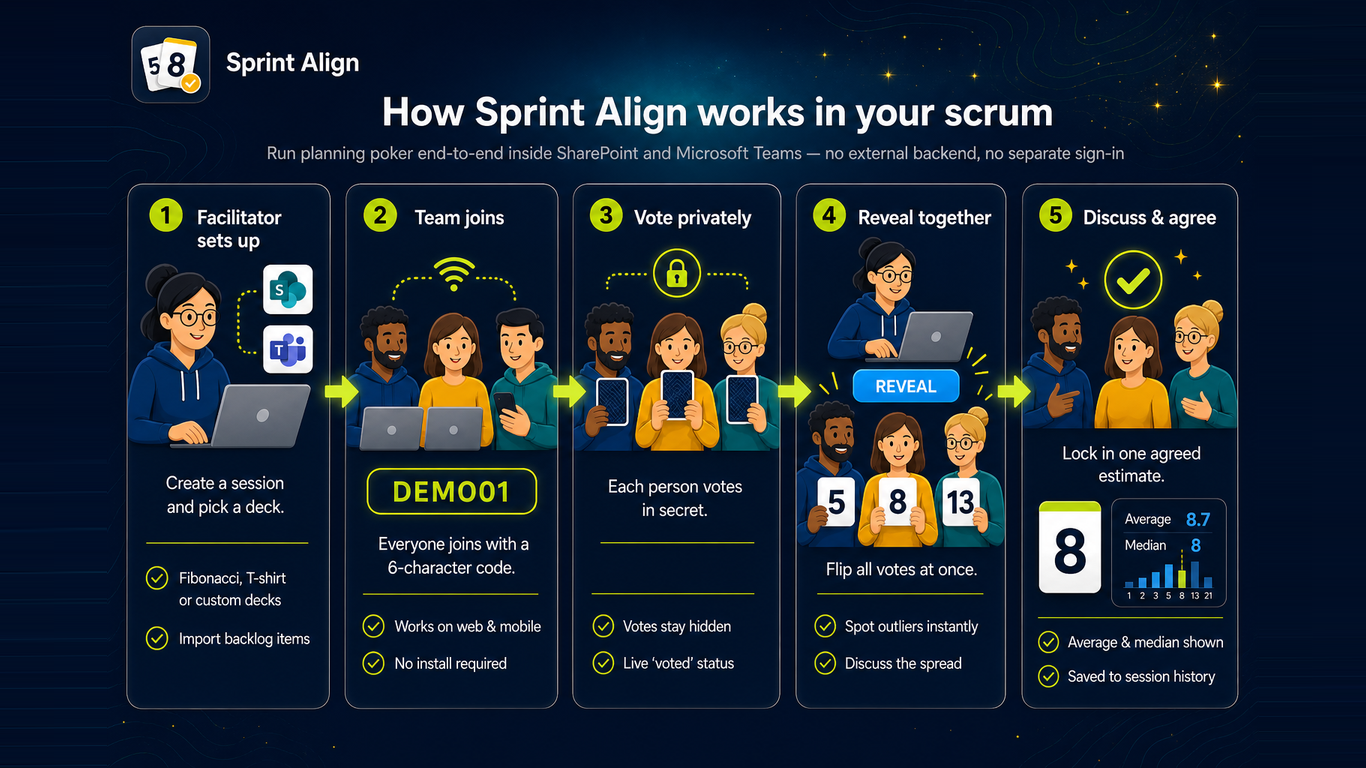
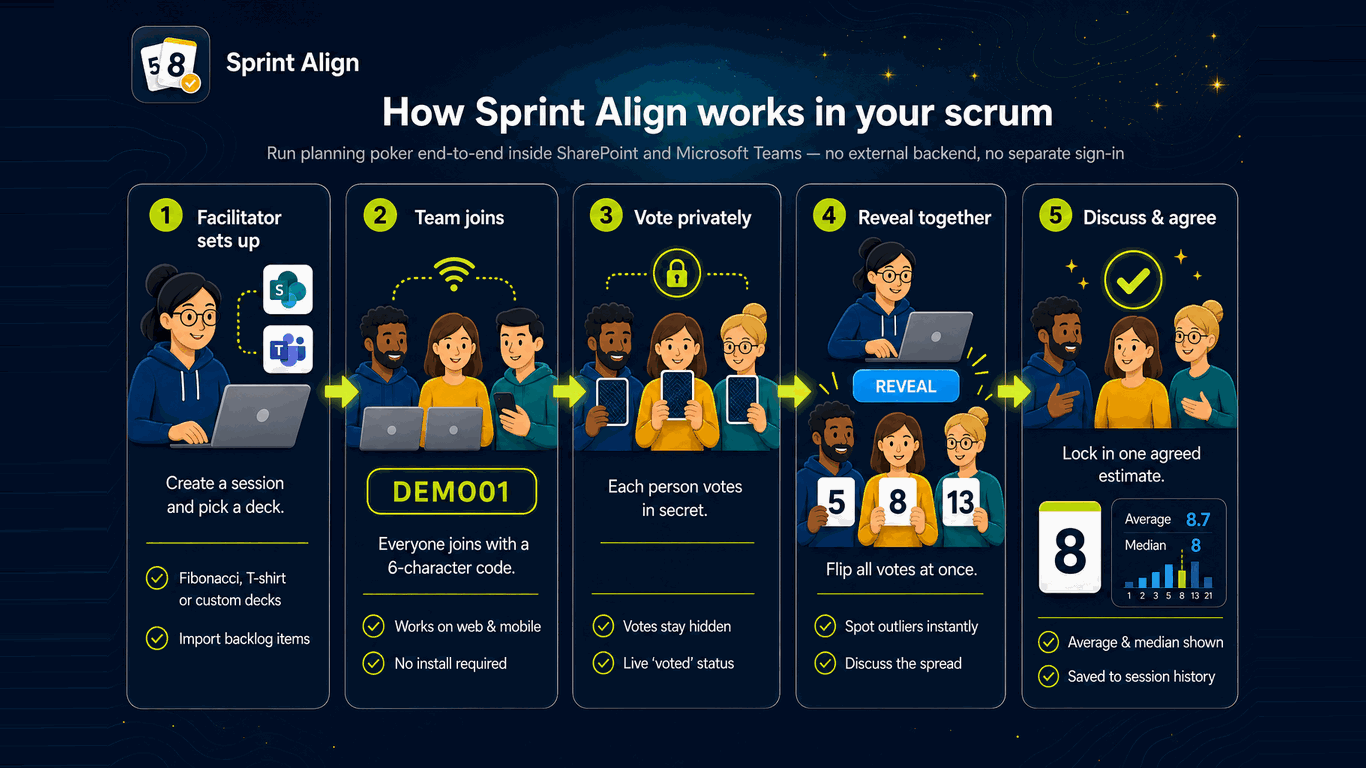
Commiting chnges.

Changed region(s): [[0.5534, 0.5, 0.5842, 0.5312], [0.3997, 0.5, 0.4305, 0.5312], [0.1845, 0.375, 0.2152, 0.4062]]

diff --git a/spPokerPlanning/src/utils/subscriptionStatusToken.ts b/spPokerPlanning/src/utils/subscriptionStatusToken.ts
@@ -20,6 +20,7 @@ interface IStatusTokenPayload {
 }
 
 let cachedCryptoKey: CryptoKey | undefined;
+let verificationKeyPromise: Promise<CryptoKey | undefined> | undefined;
 
 function base64UrlToBytes(value: string): Uint8Array {
   const padded = value.replace(/-/g, '+').replace(/_/g, '/');
@@ -63,23 +64,29 @@ async function getVerificationKey(apiBaseUrl: string): Promise<CryptoKey | undef
     return cachedCryptoKey;
   }
 
-  const response = await fetch(`${apiBaseUrl}/api/subscription/status-signing-key`, {
-    method: 'GET',
-    headers: { Accept: 'application/json' }
-  });
+  if (!verificationKeyPromise) {
+    verificationKeyPromise = (async (): Promise<CryptoKey | undefined> => {
+      const response = await fetch(`${apiBaseUrl}/api/subscription/status-signing-key`, {
+        method: 'GET',
+        headers: { Accept: 'application/json' }
+      });
 
-  if (!response.ok) {
-    return undefined;
+      if (!response.ok) {
+        return undefined;
+      }
+
+      const data = (await response.json()) as IStatusSigningKeyResponse;
+      if (!data.publicKey) {
+        return undefined;
+      }
+
+      const importedKey = await importPublicKey(data.publicKey);
+      cachedCryptoKey = importedKey;
+      return importedKey;
+    })();
   }
 
-  const data = (await response.json()) as IStatusSigningKeyResponse;
-  if (!data.publicKey) {
-    return undefined;
-  }
-
-  const importedKey = await importPublicKey(data.publicKey);
-  cachedCryptoKey = importedKey;
-  return importedKey;
+  return verificationKeyPromise;
 }
 
 export async function verifySubscriptionStatusToken(
@@ -168,4 +175,5 @@ export async function verifySubscriptionStatusToken(
 
 export function clearStatusSigningKeyCache(): void {
   cachedCryptoKey = undefined;
+  verificationKeyPromise = undefined;
 }

diff --git a/spPokerPlanning/scripts/apply-publisher-metadata.js b/spPokerPlanning/scripts/apply-publisher-metadata.js
@@ -1,0 +1,31 @@
+'use strict';
+
+const fs = require('fs');
+const path = require('path');
+
+const publisherPath = path.join(__dirname, '..', 'config', 'publisher.json');
+const packageSolutionPath = path.join(__dirname, '..', 'config', 'package-solution.json');
+
+const publisher = JSON.parse(fs.readFileSync(publisherPath, 'utf8'));
+const packageSolution = JSON.parse(fs.readFileSync(packageSolutionPath, 'utf8'));
+
+const mpnId =
+  (process.env.CHRONODAT_MPN_ID || process.env.SPFX_MPN_ID || publisher.mpnId || '').trim();
+
+packageSolution.solution.developer = {
+  name: publisher.publisherName || 'Chronodat, LLC',
+  websiteUrl: publisher.websiteUrl,
+  privacyUrl: publisher.privacyUrl,
+  termsOfUseUrl: publisher.termsOfUseUrl,
+  mpnId: mpnId || 'Undefined-1.21.1'
+};
+
+fs.writeFileSync(packageSolutionPath, `${JSON.stringify(packageSolution, null, 2)}\n`, 'utf8');
+
+if (!mpnId) {
+  console.warn(
+    '[publisher] developer.mpnId is not set. Add it to config/publisher.json or set CHRONODAT_MPN_ID before AppSource submission.'
+  );
+} else {
+  console.log('[publisher] Applied developer metadata to config/package-solution.json');
+}

diff --git a/spPokerPlanning/e2e/appsource-screenshots.spec.ts b/spPokerPlanning/e2e/appsource-screenshots.spec.ts
@@ -16,13 +16,9 @@ const authFile = 'e2e/.auth/user.json';
 
 /**
  * Drives the full Sprint Align experience with the in-memory demo workshop
- * (no SharePoint writes) and captures the marketplace screenshots used for the
- * AppSource / SharePoint store listing. Because it walks every primary screen —
- * home, live voting, revealed results, settings/branding, and history — it also
- * serves as an end-to-end smoke test of the shipped bundle on the live page.
- *
- * The three package-solution screenshotPaths (01-home, 02-sessions, 03-settings)
- * are always regenerated; 04-results and 05-history are extra listing assets.
+ * (no SharePoint writes) and captures marketplace screenshots used for the
+ * AppSource / SharePoint store listing. Filenames match package-solution
+ * screenshotPaths and Partner Center upload names (01–05).
  */
 test.describe('Sprint Align — AppSource screenshots (demo data)', () => {
   test.describe.configure({ mode: 'serial' });
@@ -58,20 +54,18 @@ test.describe('Sprint Align — AppSource screenshots (demo data)', () => {
   test('02 — live voting session', { tag: '@screenshots' }, async () => {
     await launchDemoWorkshop(page);
 
-    // Demo lands on an open round for the first story with teammates already voting.
     await expect(appRoot(page).getByText('User onboarding flow redesign')).toBeVisible({ timeout: 30_000 });
     await expect(appRoot(page).getByText(/choose your estimate/i)).toBeVisible();
     await expect(appRoot(page).getByText(/team roster/i)).toBeVisible();
     await expect(appRoot(page).getByText('Sam Rivera')).toBeVisible();
 
-    // Cast the facilitator's own estimate so the board reads as a full round.
     const voteCard = appRoot(page).getByRole('button', { name: 'Vote 5' });
     if (await voteCard.isVisible().catch(() => false)) {
       await voteCard.click();
       await expect(appRoot(page).getByText(/your vote:/i)).toBeVisible({ timeout: 15_000 });
     }
 
-    await saveStoreScreenshot(page, 'sprint-align-screenshot-02-sessions.png');
+    await saveStoreScreenshot(page, 'sprint-align-screenshot-02-voting.png');
   });
 
   test('03 — revealed round results', { tag: '@screenshots' }, async () => {
@@ -80,7 +74,7 @@ test.describe('Sprint Align — AppSource screenshots (demo data)', () => {
       await reveal.click();
     }
     await expect(appRoot(page).getByText('Round results')).toBeVisible({ timeout: 30_000 });
-    await saveStoreScreenshot(page, 'sprint-align-screenshot-04-results.png');
+    await saveStoreScreenshot(page, 'sprint-align-screenshot-03-results.png');
   });
 
   test('04 — settings and branding', { tag: '@screenshots' }, async () => {
@@ -88,12 +82,11 @@ test.describe('Sprint Align — AppSource screenshots (demo data)', () => {
 
     await openSettingsTab(page, 'Branding');
     await expect(appRoot(page).getByRole('tab', { name: 'Branding' })).toBeVisible();
-    // Brand preview card is the most representative settings visual.
     await expect(appRoot(page).getByText(/brand preview/i).first()).toBeVisible({ timeout: 30_000 });
-    await saveStoreScreenshot(page, 'sprint-align-screenshot-03-settings.png');
+    await saveStoreScreenshot(page, 'sprint-align-screenshot-04-settings.png');
   });
 
-  test('05 — session history', { tag: '@screenshots' }, async () => {
+  test('05 — session history (extra capture)', { tag: '@screenshots' }, async () => {
     await clickAppButton(page, 'Back home');
     await expect(appRoot(page).getByText('Join a session')).toBeVisible({ timeout: 30_000 });
 
@@ -101,6 +94,6 @@ test.describe('Sprint Align — AppSource screenshots (demo data)', () => {
     await expect(
       appRoot(page).getByRole('heading', { name: /review previous sessions|sessions/i }).first()
     ).toBeVisible({ timeout: 30_000 });
-    await saveStoreScreenshot(page, 'sprint-align-screenshot-05-history.png');
+    await saveStoreScreenshot(page, 'sprint-align-screenshot-extra-history.png');
   });
 });

diff --git a/spPokerPlanning/src/types/staticAssets.d.ts b/spPokerPlanning/src/types/staticAssets.d.ts
@@ -1,0 +1,14 @@
+declare module '*.jpg' {
+  const src: string;
+  export default src;
+}
+
+declare module '*.jpeg' {
+  const src: string;
+  export default src;
+}
+
+declare module '*.png' {
+  const src: string;
+  export default src;
+}

diff --git a/spPokerPlanning/src/demo/mockParticipantPhotos.ts b/spPokerPlanning/src/demo/mockParticipantPhotos.ts
@@ -3,11 +3,11 @@
  * Remove with src/demo/ when mock data is no longer needed.
  */
 
-const samRiveraPhoto: string = require('./assets/sam-rivera.jpg');
-const jordanLeePhoto: string = require('./assets/jordan-lee.jpg');
-const alexChenPhoto: string = require('./assets/alex-chen.jpg');
-const morganPatelPhoto: string = require('./assets/morgan-patel.jpg');
-const taylorBrooksPhoto: string = require('./assets/taylor-brooks.jpg');
+import samRiveraPhoto from './assets/sam-rivera.jpg';
+import jordanLeePhoto from './assets/jordan-lee.jpg';
+import alexChenPhoto from './assets/alex-chen.jpg';
+import morganPatelPhoto from './assets/morgan-patel.jpg';
+import taylorBrooksPhoto from './assets/taylor-brooks.jpg';
 
 export const MOCK_PARTICIPANT_PHOTO_URLS: Record<string, string> = {
   'mock-sam-rivera': samRiveraPhoto,

diff --git a/spPokerPlanning/src/components/Onboarding/SetupPromptBanner.tsx b/spPokerPlanning/src/components/Onboarding/SetupPromptBanner.tsx
@@ -4,6 +4,10 @@ import { IProvisioningStatus } from '../../services/ProvisioningService';
 import { APP_NAME } from '../../config/appMeta';
 import { TeamsSetupWarning } from './TeamsSetupWarning';
 
+const StackLike: React.FC<{ children: React.ReactNode }> = ({ children }) => (
+  <div style={{ display: 'flex', flexDirection: 'column', gap: 12, width: '100%' }}>{children}</div>
+);
+
 export interface SetupPromptBannerProps {
   status: IProvisioningStatus;
   isSiteOwner: boolean;
@@ -53,7 +57,3 @@ export const SetupPromptBanner: React.FC<SetupPromptBannerProps> = ({
     </StackLike>
   );
 };
-
-const StackLike: React.FC<{ children: React.ReactNode }> = ({ children }) => (
-  <div style={{ display: 'flex', flexDirection: 'column', gap: 12, width: '100%' }}>{children}</div>
-);

diff --git a/spPokerPlanning/gulpfile.js b/spPokerPlanning/gulpfile.js
@@ -5,6 +5,13 @@ const build = require('@microsoft/sp-build-web');
 build.addSuppression(`Warning - [sass] The local CSS class 'ms-Grid' is not camelCase and will not be type-safe.`);
 
 build.rig.addPreBuildTask(
+  build.subTask('apply-publisher-metadata', function applyPublisherMetadata(_gulp, _buildConfig, done) {
+    require('./scripts/apply-publisher-metadata.js');
+    done();
+  })
+);
+
+build.rig.addPreBuildTask(
   build.subTask('generate-build-info', function generateBuildInfo(_gulp, _buildConfig, done) {
     require('./scripts/generate-build-info.js');
     done();

diff --git a/spPokerPlanning/src/webparts/estimatr/EstimatrWebPart.ts b/spPokerPlanning/src/webparts/estimatr/EstimatrWebPart.ts
@@ -50,6 +50,7 @@ export default class EstimatrWebPart extends BaseClientSideWebPart<IEstimatrWebP
     if (existingMounts.length > 0) {
       this._reactMountPoint = existingMounts[existingMounts.length - 1];
       for (let i = 0; i < existingMounts.length - 1; i++) {
+        // eslint-disable-next-line @microsoft/spfx/pair-react-dom-render-unmount -- remove stale duplicate mounts
         ReactDom.unmountComponentAtNode(existingMounts[i]);
         existingMounts[i].remove();
       }
@@ -153,6 +154,7 @@ export default class EstimatrWebPart extends BaseClientSideWebPart<IEstimatrWebP
         }
       );
 
+      // eslint-disable-next-line @microsoft/spfx/pair-react-dom-render-unmount -- unmount in onDispose()
       ReactDom.render(element, mount);
     } catch (error) {
       // eslint-disable-next-line no-console
@@ -201,9 +203,10 @@ export default class EstimatrWebPart extends BaseClientSideWebPart<IEstimatrWebP
     clearSharePointChromeSettings();
     unmarkTeamsHostEnvironment();
     if (this._reactMountPoint) {
+      // eslint-disable-next-line @microsoft/spfx/pair-react-dom-render-unmount -- paired with render()
       ReactDom.unmountComponentAtNode(this._reactMountPoint);
+      this._reactMountPoint = undefined;
     }
-    ReactDom.unmountComponentAtNode(this.domElement);
   }
 
   protected get dataVersion(): Version {

diff --git a/spPokerPlanning/src/config/buildInfo.ts b/spPokerPlanning/src/config/buildInfo.ts
@@ -1,6 +1,6 @@
 /** Auto-generated at build time — do not edit manually. */
-export const APP_VERSION = '1.1.3.29';
-export const APP_COMMIT = '6c9d469';
+export const APP_VERSION = '1.1.3.30';
+export const APP_COMMIT = 'fbc0574';
 
 export function getBuildLabel(): string {
   return `v${APP_VERSION} \u00b7 ${APP_COMMIT}`;

diff --git a/spPokerPlanning/store-assets/scripts/build-store-ai.py b/spPokerPlanning/store-assets/scripts/build-store-ai.py
@@ -20,7 +20,7 @@ SRC = ROOT / "generated" / "marketing" / "_ai_clean"
 OUT = ROOT / "generated" / "screenshots"
 
 W, H = 1366, 768
-CAP_KB = 1024
+CAP_KB = 950
 
 IMAGES = [
     ("ai-embed-hero.png", "sprint-align-screenshot-01-home.png"),
@@ -53,12 +53,21 @@ def fit_extend(img: Image.Image) -> Image.Image:
 
 def save_under_cap(img: Image.Image, path: Path) -> None:
     path.parent.mkdir(parents=True, exist_ok=True)
-    img.save(path, format="PNG", optimize=True, compress_level=9)
-    if path.stat().st_size / 1024 > CAP_KB:
-        img.quantize(colors=256, method=Image.Quantize.FASTOCTREE).convert("RGB").save(
-            path, format="PNG", optimize=True, compress_level=9
-        )
-    print(f"  {path.relative_to(ROOT)} ({img.width}x{img.height}, {path.stat().st_size / 1024:.0f} KB)")
+    max_bytes = CAP_KB * 1024
+    working = img.convert("RGB")
+
+    working.save(path, format="PNG", optimize=True, compress_level=9)
+    if path.stat().st_size <= max_bytes:
+        print(f"  {path.relative_to(ROOT)} ({working.width}x{working.height}, {path.stat().st_size / 1024:.0f} KB)")
+        return
+
+    for colors in (256, 128, 96, 64):
+        quantized = working.quantize(colors=colors, method=Image.Quantize.FASTOCTREE).convert("RGB")
+        quantized.save(path, format="PNG", optimize=True, compress_level=9)
+        if path.stat().st_size <= max_bytes:
+            break
+
+    print(f"  {path.relative_to(ROOT)} ({working.width}x{working.height}, {path.stat().st_size / 1024:.0f} KB)")
 
 
 def main() -> None:

diff --git a/spPokerPlanning/store-assets/generate-icons.py b/spPokerPlanning/store-assets/generate-icons.py
@@ -220,18 +220,6 @@ def main() -> None:
     save_png(OUT / "full-page-icon-193x158.png", render_full_page_icon(master))
     save_png(TEAMS / f"{component_id}_outline.png", render_outline_icon(32))
 
-    screenshots = [
-        ("Align on estimates faster", "Run planning poker, dot voting, and surveys without leaving SharePoint.", "Home"),
-        ("Facilitator-led sessions", "Create a session, share a join code, and guide the team through each backlog item.", "Sessions"),
-        ("Governance built in", "Site owners control provisioning, retention, branding, and who can create sessions.", "Settings"),
-    ]
-    shot_dir = OUT / "screenshots"
-    for i, (title, subtitle, badge) in enumerate(screenshots, start=1):
-        save_png(
-            shot_dir / f"sprint-align-screenshot-{i:02d}-{badge.lower()}.png",
-            render_screenshot(master, title, subtitle, badge, i),
-        )
-
 
 if __name__ == "__main__":
     main()

diff --git a/spPokerPlanning/store-assets/scripts/build-sprint-align-wiki.py b/spPokerPlanning/store-assets/scripts/build-sprint-align-wiki.py
@@ -13,7 +13,7 @@ from pathlib import Path
 
 OUT = Path(r"C:\chronodatWeb\chronodat-web\wiki\sprint-align")
 PRODUCT = "Sprint Align"
-VERSION = "1.1.3.29"
+VERSION = "1.1.3.30"
 BASE = "/wiki/sprint-align"
 ICON = "/img/sprint-align/icon-96.png"
 IMG = "/img/sprint-align/wiki"